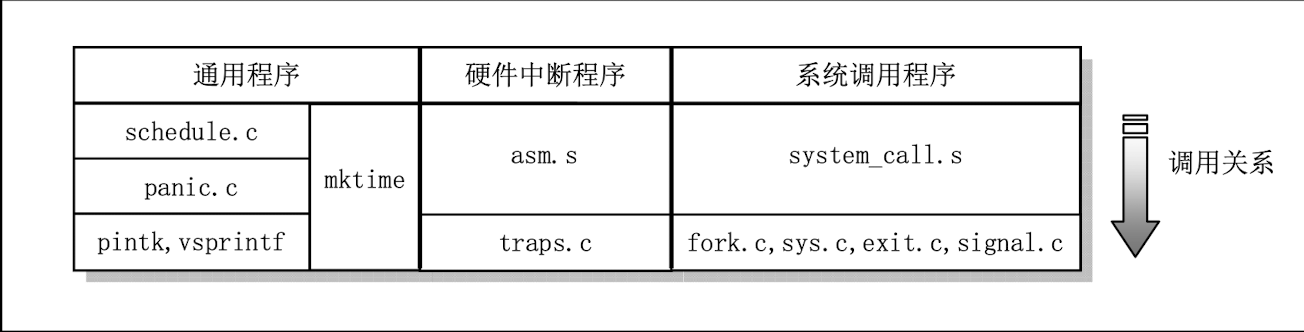
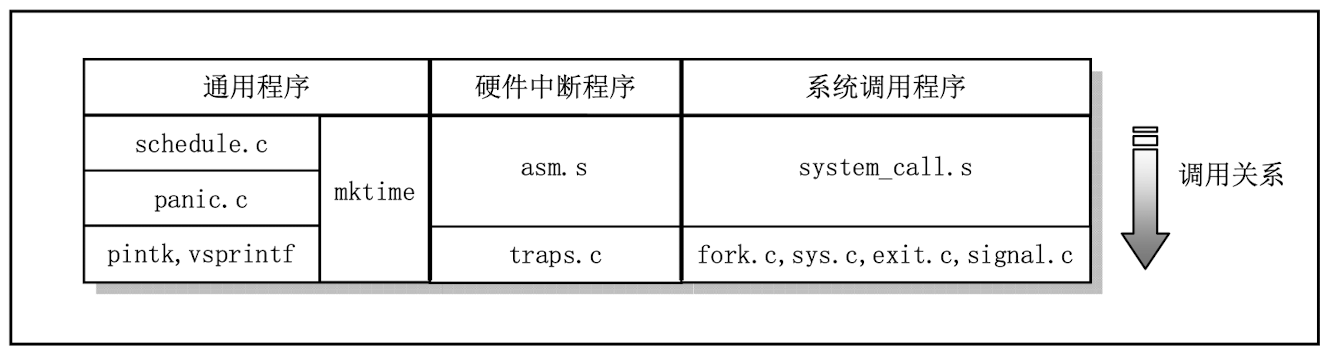
vault backup: 2024-05-23 08:28:36

diff --git a/1.学习笔记/a04.操作系统/Linux/Linux源码分析/8.内核代码（kernel）/8.1 总体功能.md b/1.学习笔记/a04.操作系统/Linux/Linux源码分析/8.内核代码（kernel）/8.1 总体功能.md
@@ -1,1 +1,1 @@
-![[Pasted image 20240523082729.png]]
+![[内核目录中各文件中函数调用关系.png]]
